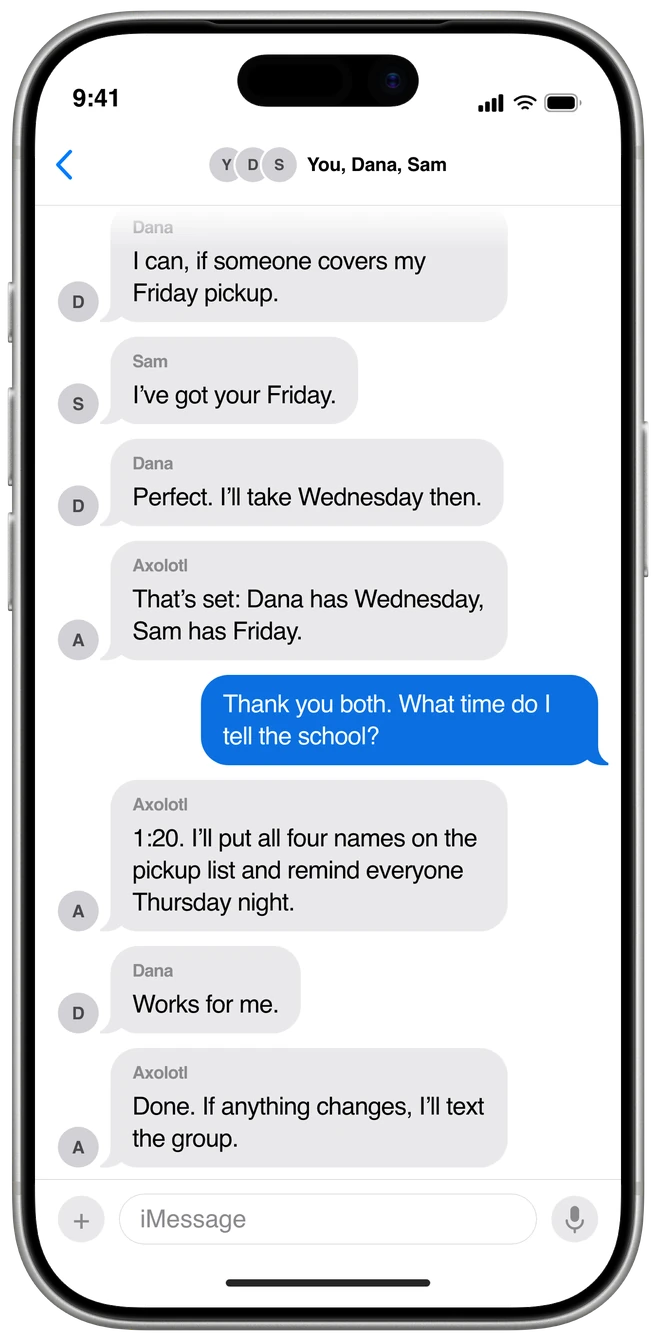
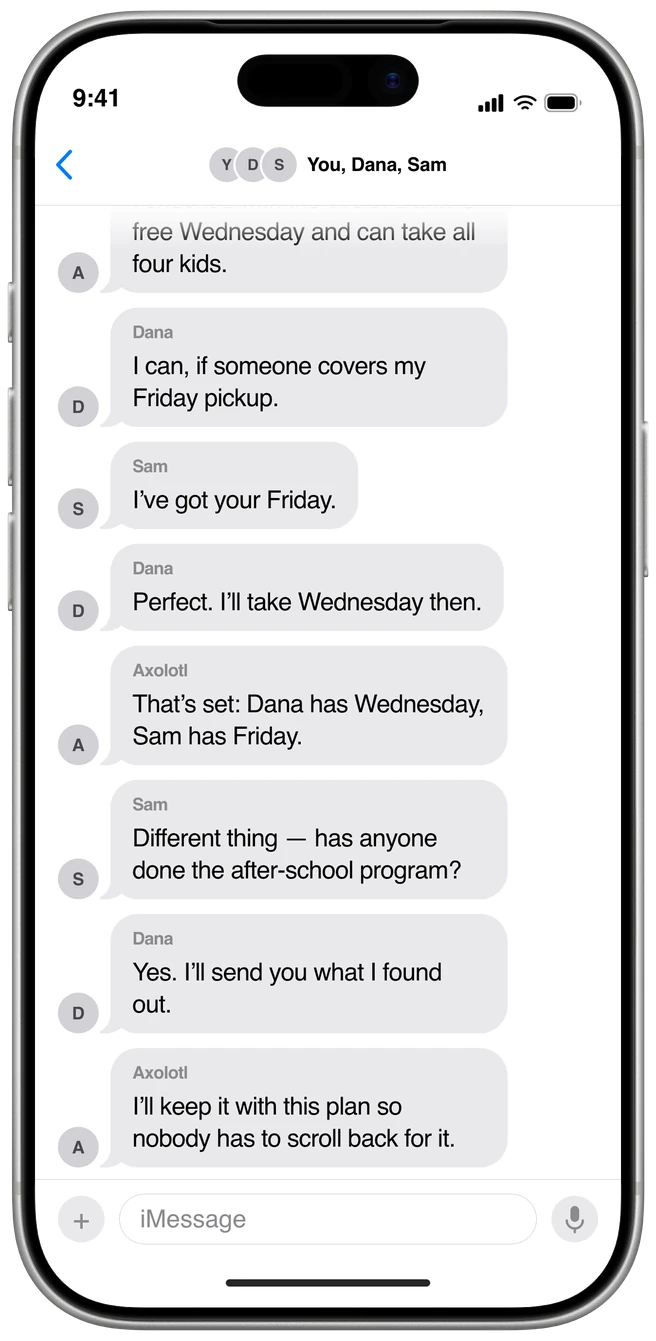
fix(site): stop the phones claiming Axolotl texts caregivers, broaden circles
The strings file already carried the rule "Nothing here claims Axolotl texts
a backup caregiver on a parent's behalf. That is not live, so the week bubbles
offer a reminder instead", and the conversations broke it in four places —
worst of all "I texted his teacher. She'll walk him to the office at noon",
which is not a thing any school agent should claim to do.

The week bubbles now name the limit and stay useful: "Grandma is first on your
backup list. I can't text her for you. I want the message written so it's one
tap?" — the parent sends it, Axolotl drafts and tracks it, then offers to email
the office. Same for Dana, Sam and the hero's Grandma line. "School texted"
becomes "School emailed", which is the channel that actually exists.

Circles stops being only about pickups:

  h2   "Coordinate effortlessly with the people you already trust."
  lead your partner, your mom, the sitter, the parents you trade with —
       one plan, and pickups are the start, not the whole idea
  list sick days, the school run, appointment swaps, and passing on what you
       learned about a teacher or a program
  chat Sam asks the group about the after-school program after the pickup is
       settled, and Axolotl keeps the answer with the plan

Layers column says the same thing in one line. Both languages, all ten renders
and the four pages regenerated.

diff --git a/public/es.html b/public/es.html
@@ -75,10 +75,10 @@
           <div class="hero-phone-wrap">
             <img
               class="hero-phone"
-              src="/hero-phone-es.webp?v=4b8a1b5db2573d4e"
+              src="/hero-phone-es.webp?v=8cd7f87125462286"
               width="328"
               height="670"
-              alt="Conversación de texto en un teléfono. Axolotl dice que llegaron ocho correos y que dos cosas necesitan a la familia. La familia, en juntas todo el día, le pide a Axolotl que se encargue. Axolotl llenó el formulario de excursión de Maya y lo envía con el visto bueno de la familia, luego confirma que Lincoln lo tiene, referencia K-1042, y que la abuela cubre la salida temprana del miércoles."
+              alt="Conversación de texto en un teléfono. Axolotl dice que llegaron ocho correos y que dos cosas necesitan a la familia. La familia, en juntas todo el día, le pide a Axolotl que se encargue. Axolotl llenó el formulario de excursión de Maya y lo envía con el visto bueno de la familia, luego confirma que Lincoln lo tiene, referencia K-1042, y avisa que la salida temprana del miércoles sigue sin cubrir, con un mensaje de un toque listo para la abuela."
               fetchpriority="high"
               decoding="async"
             />
@@ -120,7 +120,7 @@
         <div class="layer">
           <p class="layer-label">La casa ahora, los círculos después</p>
           <h3>Tu gente</h3>
-          <p>Tu pareja, la abuela y la niñera ven el mismo plan, y cada tarea tiene un nombre. Pronto: las mamás y papás con quienes intercambias recogidas.</p>
+          <p>Tu pareja, la abuela y la niñera ven el mismo plan, y cada tarea tiene un nombre. Pronto: las familias con las que compartes la ida a la escuela, los días de enfermedad y las recogidas.</p>
         </div>
         <div class="layer">
           <p class="layer-label">Compartido</p>
@@ -144,10 +144,10 @@
             <h3>Días libres y salidas tempranas</h3>
             <img
               class="week-shot"
-              src="/week-1-es.webp?v=4b8a1b5db2573d4e"
+              src="/week-1-es.webp?v=8cd7f87125462286"
               width="336"
               height="687"
-              alt="Una conversación de texto con Axolotl: Días libres y salidas tempranas. Axolotl: Salió el calendario del distrito. El miércoles la salida es a la 1:20. Tú: No puedo recogerlos, tengo reuniones hasta las 3. Axolotl: La abuela está libre. ¿Quieres que le pregunte? Tú: Sí, por favor. Axolotl: Dijo que sí. Leo está cubierto el miércoles a la 1:20. Tú: ¿Y Maya? Está en el otro plantel. Axolotl: Le pregunté a Dana: puede recoger a Maya de camino. Tú: Perfecto. Gracias. Axolotl: Los dos nombres están en la lista de recogida y la oficina ya sabe. Tú: ¿Eso cubre también el jueves? Axolotl: El jueves es un día normal. Estás libre hasta el viernes. Esperando tu sí"
+              alt="Una conversación de texto con Axolotl: Días libres y salidas tempranas. Axolotl: Salió el calendario del distrito. El miércoles la salida es a la 1:20. Tú: No puedo recogerlos, tengo reuniones hasta las 3. Axolotl: La abuela es la primera en tu lista de respaldo. No puedo escribirle yo. Axolotl: Te lo dejo redactado para que sea un toque, y te recuerdo el martes por la noche. Tú: Por favor. Axolotl: Listo: «¿Puedes recoger a los tres el miércoles? Salen a la 1:20.» Tú: Enviado. Dijo que sí. Axolotl: Anotado: Leo está cubierto. El plantel de Maya todavía necesita a Dana. Tú: Mándame lo mismo para Dana. Axolotl: Hecho. Si no lo has hecho, te pregunto el miércoles en la mañana. Esperando tu sí"
               decoding="async"
             />
           </li>
@@ -155,10 +155,10 @@
             <h3>Cambios del mismo día</h3>
             <img
               class="week-shot"
-              src="/week-2-es.webp?v=4b8a1b5db2573d4e"
+              src="/week-2-es.webp?v=8cd7f87125462286"
               width="336"
               height="687"
-              alt="Una conversación de texto con Axolotl: Cambios del mismo día. Axolotl: Lincoln acaba de escribir. Hoy salen al mediodía. Axolotl: Faltan doce minutos. Tú: No puedo salir. Tengo reuniones hasta las 3. Axolotl: La abuela es la primera en tu lista de respaldo. ¿Quieres que le pregunte? Tú: Sí, por favor, ya. Axolotl: Ya los tiene. Le avisé a la oficina que están cubiertos. Tú: ¿Le dijiste a Leo? Axolotl: Le escribí a su maestra. Ella lo lleva a la oficina al mediodía. Tú: Gracias. Qué rápido. Axolotl: La abuela te escribe cuando estén en casa. Axolotl: Voy a seguir los mensajes de la escuela por si algo más se mueve. Esperando tu sí"
+              alt="Una conversación de texto con Axolotl: Cambios del mismo día. Axolotl: Lincoln escribió. Hoy salen al mediodía. Axolotl: Faltan doce minutos. Tú: No puedo salir. Tengo reuniones hasta las 3. Axolotl: La abuela es la primera en tu lista de respaldo. No puedo escribirle yo. Axolotl: ¿Te dejo el mensaje redactado para que sea un toque? Tú: Sí, rápido. Axolotl: «¿Puedes recoger a los tres al mediodía? Lincoln adelantó la salida.» Tú: Enviado. Ya va. Axolotl: ¿Quieres que le escriba a la oficina que ella los recoge? Tú: Sí, y pide que manden a Leo a la oficina. Axolotl: Enviado. Te aviso en cuanto la oficina confirme. Esperando tu sí"
               decoding="async"
             />
           </li>
@@ -166,7 +166,7 @@
             <h3>Los pendientes pequeños</h3>
             <img
               class="week-shot"
-              src="/week-3-es.webp?v=4b8a1b5db2573d4e"
+              src="/week-3-es.webp?v=8cd7f87125462286"
               width="336"
               height="687"
               alt="Una conversación de texto con Axolotl: Los pendientes pequeños. Axolotl: Tres cosas esta semana: el jueves es el día de pijama, el formulario de la excursión vence el viernes, y Leo necesita una nota de ausencia. Tú: El lunes tiene dentista en la mañana. Axolotl: Entonces escribo la nota de ausencia para el lunes y lleno el formulario. Tú: ¿Necesitas algo de mí? Axolotl: Solo un sí. Lo demás ya lo tengo. Axolotl: Listo para enviar: la nota de ausencia y el formulario de Maya. Tú: Sí Axolotl: Los dos enviados. La oficina confirmó que los tiene. Tú: ¿Y el día de pijama? Axolotl: Nada que hacer: solo va en pijama. Te recuerdo el jueves en la mañana. Esperando tu sí"
@@ -177,10 +177,10 @@
             <h3>Quién se encarga</h3>
             <img
               class="week-shot"
-              src="/week-4-es.webp?v=4b8a1b5db2573d4e"
+              src="/week-4-es.webp?v=8cd7f87125462286"
               width="336"
               height="687"
-              alt="Una conversación de texto con Axolotl: Quién se encarga. Axolotl: Así va la semana. Axolotl: Recogida del miércoles: la abuela. El formulario de Maya: tú. Dentista el jueves: Sam. Tú: ¿Le puedes recordar a Sam lo del jueves? Axolotl: Sam ve la misma lista, y le recordaré a quien le toque. Tú: ¿Y el viernes? Puede que salga tarde. Axolotl: Dana lleva a los cuatro el viernes; lo confirmó esta mañana. Tú: Qué bien. ¿Se me olvida algo? Axolotl: La feria del libro dura toda la semana. No hay nada que hacer salvo que quieras mandar dinero. Tú: Déjalo. Axolotl: Listo, lo dejo. Te escribo el viernes por la tarde. Tú: Gracias. Axolotl: Con gusto. Que tengas buena semana. Recordatorio puesto"
+              alt="Una conversación de texto con Axolotl: Quién se encarga. Axolotl: Así va la semana. Axolotl: Recogida del miércoles: la abuela. El formulario de Maya: tú. Dentista el jueves: Sam. Tú: ¿Me puedes recordar hablar con Sam lo del jueves? Axolotl: No puedo escribirle a Sam, pero te lo recuerdo el jueves en la mañana. Tú: Hazlo. Axolotl: Listo. ¿Algo más? Tú: ¿Y el viernes? Puede que salga tarde. Axolotl: El viernes sigue sin cubrir. ¿Te dejo un mensaje de un toque para Dana? Tú: Sí. Axolotl: Redactado. Envíalo cuando quieras. Recordatorio puesto"
               decoding="async"
             />
           </li>
@@ -261,7 +261,7 @@
           <div class="phone-tilt">
             <img
               class="phone-shot"
-              src="/phone-es.webp?v=4b8a1b5db2573d4e"
+              src="/phone-es.webp?v=8cd7f87125462286"
               width="328"
               height="670"
               alt="Conversación de texto en un teléfono: Axolotl dice que Leo necesita un examen físico y uno dental antes del 15 de octubre. La familia le pide que se encargue. Axolotl encuentra una cita en la red, llena los dos formularios y muestra los datos listos para enviar. La familia responde Sí, y Axolotl confirma que la Primaria Lincoln lo aceptó, referencia K-1042."
@@ -286,18 +286,18 @@
       <div class="wrap circles-grid">
         <div>
           <div class="h2-row">
-            <h2 id="circles-title">Turnarse para recoger a los niños, con familias de confianza.</h2>
+            <h2 id="circles-title">Coordina sin esfuerzo con la gente en la que ya confías.</h2>
             <span class="status status-soon">Próximamente</span>
           </div>
-          <p class="lead">Ya se turnan para recoger a los niños por mensaje. Pronto, Axolotl puede hacer las preguntas: calcula la parte de cada familia y solo lo planea cuando todas dicen que sí.</p>
+          <p class="lead">Tu círculo es la gente que ya te ayuda: tu pareja, tu mamá, la niñera, las familias con las que te turnas. Pronto, Axolotl los mete en un solo plan — pregunta con tus palabras, reparte quién hace qué, y solo lo cierra cuando todos dicen que sí. Las recogidas son el principio, no todo.</p>
           <ul class="plain-list" aria-label="Cómo funcionan los círculos">
           <li>Nunca necesitas un círculo para recibir toda la ayuda.</li>
           <li>Un círculo solo ve el plan, nunca por qué una familia necesita ayuda.</li>
-          <li>Nada se acuerda hasta que todas las familias digan sí.</li>
-          <li>Ayudar no es solo manejar, y nadie lleva la cuenta.</li>
+          <li>Nada se acuerda hasta que todos digan sí.</li>
+          <li>No son solo las recogidas: días de enfermedad, la ida a la escuela, cambios de cita, y compartir lo que averiguaste sobre una maestra o un programa.</li>
           <li>Cada quien lee y escribe en su propio idioma.</li>
           <li>Si el distrito le debe transporte a tu familia, Axolotl le pregunta primero al distrito.</li>
-          <li>Axolotl coordina. No da transporte; las familias deciden quién maneja.</li>
+          <li>Axolotl coordina. No maneja; las familias deciden.</li>
           </ul>
           <div class="form-block">
           <h3>Empieza un círculo</h3>
@@ -331,10 +331,10 @@
           <figure class="circles-shot">
             <img
               class="phone-shot"
-              src="/circles-es.webp?v=4b8a1b5db2573d4e"
+              src="/circles-es.webp?v=8cd7f87125462286"
               width="328"
               height="670"
-              alt="Ejemplo de chat grupal en Mensajes. La familia dice que los dos están atorados el miércoles por la salida temprana y pide ayuda. Axolotl reporta que Dana está libre el miércoles y puede llevar a los cuatro niños; Dana acepta si alguien cubre su recogida del viernes, Sam toma el viernes, y Axolotl confirma el plan: Dana el miércoles, Sam el viernes."
+              alt="Ejemplo de chat grupal en Mensajes, con la función de círculos. La familia dice que los dos están atorados el miércoles por la salida temprana y pide ayuda. Axolotl reporta que Dana está libre el miércoles y puede llevar a los cuatro niños; Dana acepta si alguien cubre su recogida del viernes, Sam toma el viernes, y Axolotl confirma el plan: Dana el miércoles, Sam el viernes. Luego Sam pregunta al grupo por el programa después de clases."
               loading="lazy"
               decoding="async"
             />

diff --git a/public/index.html b/public/index.html
@@ -75,10 +75,10 @@
           <div class="hero-phone-wrap">
             <img
               class="hero-phone"
-              src="/hero-phone-en.webp?v=4b8a1b5db2573d4e"
+              src="/hero-phone-en.webp?v=8cd7f87125462286"
               width="328"
               height="670"
-              alt="Text thread on a phone. Axolotl says eight school emails came in and two things need the parent. The parent, in meetings all day, asks Axolotl to deal with them. Axolotl has filled in Maya’s field trip form and sends it on the parent’s go-ahead, then confirms Lincoln has it, reference K-1042, and that Grandma is covering Wednesday’s early release."
+              alt="Text thread on a phone. Axolotl says eight school emails came in and two things need the parent. The parent, in meetings all day, asks Axolotl to deal with them. Axolotl has filled in Maya’s field trip form and sends it on the parent’s go-ahead, then confirms Lincoln has it, reference K-1042. It also flags that Wednesday’s early release still needs cover and offers a one-tap message for Grandma."
               fetchpriority="high"
               decoding="async"
             />
@@ -120,7 +120,7 @@
         <div class="layer">
           <p class="layer-label">Household now, circles soon</p>
           <h3>Your people</h3>
-          <p>Your partner, grandma and the sitter see the same plan, and every task has a name on it. Soon: the parent friends you trade pickups with.</p>
+          <p>Your partner, grandma and the sitter see the same plan, and every task has a name on it. Soon: the parents you trade the school run, sick days and pickups with.</p>
         </div>
         <div class="layer">
           <p class="layer-label">Shared</p>
@@ -144,10 +144,10 @@
             <h3>Days off and early releases</h3>
             <img
               class="week-shot"
-              src="/week-1-en.webp?v=4b8a1b5db2573d4e"
+              src="/week-1-en.webp?v=8cd7f87125462286"
               width="336"
               height="687"
-              alt="A text conversation with Axolotl: Days off and early releases. Axolotl: The district calendar came out. Wednesday is early release at 1:20. You: I can’t get them — I’m in meetings until 3. Axolotl: Grandma is free. Want me to ask her? You: Please. Axolotl: She said yes. Leo is covered at 1:20 on Wednesday. You: What about Maya? She’s at the other campus. Axolotl: I asked Dana — she can pick Maya up on her way. You: Perfect. Thank you. Axolotl: Both names are on the pickup list and the office knows. You: Does that cover Thursday too? Axolotl: Thursday is a normal day. You’re clear until Friday. Waiting for your yes"
+              alt="A text conversation with Axolotl: Days off and early releases. Axolotl: The district calendar came out. Wednesday is early release at 1:20. You: I can’t get them — I’m in meetings until 3. Axolotl: Grandma is first on your backup list. I can’t text her for you. Axolotl: I’ll write it so it’s one tap, and remind you Tuesday night. You: Please. Axolotl: Ready: “Can you get all three Wednesday? Out at 1:20.” You: Sent. She said yes. Axolotl: Noted — Leo is covered. Maya’s campus still needs Dana. You: Send me the same for Dana. Axolotl: Done. I’ll check Wednesday morning if you haven’t. Waiting for your yes"
               decoding="async"
             />
           </li>
@@ -155,10 +155,10 @@
             <h3>Same-day changes</h3>
             <img
               class="week-shot"
-              src="/week-2-en.webp?v=4b8a1b5db2573d4e"
+              src="/week-2-en.webp?v=8cd7f87125462286"
               width="336"
               height="687"
-              alt="A text conversation with Axolotl: Same-day changes. Axolotl: Lincoln just texted. Dismissal at noon today. Axolotl: That’s twelve minutes from now. You: I can’t leave. I’m in meetings until 3. Axolotl: Grandma is first on your backup list. Want me to ask her? You: Yes, please — go. Axolotl: She’s got them. I told the office the kids are covered. You: Did you tell Leo? Axolotl: I texted his teacher. She’ll walk him to the office at noon. You: Thank you. That was fast. Axolotl: Grandma will text you when they’re home. Axolotl: I’ll keep an eye on the school’s messages in case anything else moves. Waiting for your yes"
+              alt="A text conversation with Axolotl: Same-day changes. Axolotl: Lincoln emailed. Dismissal at noon today. Axolotl: That’s twelve minutes from now. You: I can’t leave. I’m in meetings until 3. Axolotl: Grandma is first on your backup list. I can’t text her for you. Axolotl: Want the message written so it’s one tap? You: Yes — fast. Axolotl: “Can you get all three at noon? Lincoln moved dismissal up.” You: Sent. She’s on it. Axolotl: Want me to email the office that she’s collecting them? You: Yes — and ask them to send Leo down. Axolotl: Sent. I’ll tell you the moment the office confirms. Waiting for your yes"
               decoding="async"
             />
           </li>
@@ -166,7 +166,7 @@
             <h3>The small asks</h3>
             <img
               class="week-shot"
-              src="/week-3-en.webp?v=4b8a1b5db2573d4e"
+              src="/week-3-en.webp?v=8cd7f87125462286"
               width="336"
               height="687"
               alt="A text conversation with Axolotl: The small asks. Axolotl: Three things this week: pajama day Thursday, the field trip form due Friday, and Leo needs an absence note. You: He has a dentist appointment Monday morning. Axolotl: Then I’ll write the absence note for Monday and fill in the form. You: Do you need anything from me? Axolotl: Just a yes. Everything else I have. Axolotl: Ready to send: the absence note and Maya’s field trip form. You: Yes Axolotl: Both sent. The office confirmed they have them. You: What about pajama day? Axolotl: Nothing to do — he just wears pajamas. I’ll remind you Thursday morning. Waiting for your yes"
@@ -177,10 +177,10 @@
             <h3>Who&#39;s got it</h3>
             <img
               class="week-shot"
-              src="/week-4-en.webp?v=4b8a1b5db2573d4e"
+              src="/week-4-en.webp?v=8cd7f87125462286"
               width="336"
               height="687"
-              alt="A text conversation with Axolotl: Who&#39;s got it. Axolotl: Here’s who’s on what this week. Axolotl: Wednesday pickup: Grandma. Maya’s form: you. Dentist Thursday: Sam. You: Can you remind Sam about Thursday? Axolotl: Sam sees the same list, and I’ll remind whoever’s on it. You: What about Friday? I might be late. Axolotl: Dana has all four on Friday — she confirmed this morning. You: Great. Anything I’m forgetting? Axolotl: The book fair runs all week. No action unless you want to send money. You: Skip it. Axolotl: Skipped. I’ll check in Friday afternoon. You: Thanks. Axolotl: Anytime. Have a good week. Reminder set"
+              alt="A text conversation with Axolotl: Who&#39;s got it. Axolotl: Here’s who’s on what this week. Axolotl: Wednesday pickup: Grandma. Maya’s form: you. Dentist Thursday: Sam. You: Can you remind me to check with Sam about Thursday? Axolotl: I can’t text Sam for you, but I’ll remind you Thursday morning. You: Do that. Axolotl: Set. Anything else? You: What about Friday? I might be late. Axolotl: Nobody’s covering Friday yet. Want a one-tap message for Dana? You: Yes. Axolotl: Written. Send it whenever you’re ready. Reminder set"
               decoding="async"
             />
           </li>
@@ -261,7 +261,7 @@
           <div class="phone-tilt">
             <img
               class="phone-shot"
-              src="/phone-en.webp?v=4b8a1b5db2573d4e"
+              src="/phone-en.webp?v=8cd7f87125462286"
               width="328"
               height="670"
               alt="Text conversation on a phone: Axolotl says Leo needs a physical and a dental check on file by October 15. The parent asks Axolotl to sort it out. Axolotl finds an in-network appointment, fills in both forms, and shows the ready-to-send details. The parent replies Yes, and Axolotl confirms Lincoln Elementary accepted it, reference K-1042."
@@ -286,18 +286,18 @@
       <div class="wrap circles-grid">
         <div>
           <div class="h2-row">
-            <h2 id="circles-title">Trade pickups with families you trust.</h2>
+            <h2 id="circles-title">Coordinate effortlessly with the people you already trust.</h2>
             <span class="status status-soon">Coming soon</span>
           </div>
-          <p class="lead">You already trade pickups over text. Soon, Axolotl can do the asking: it works out each family&#39;s part, and only plans it once every family says yes.</p>
+          <p class="lead">Your circle is the people who already help: your partner, your mom, the sitter, the parents you trade with. Soon, Axolotl brings them into one plan — it asks in your words, works out who is doing what, and only commits once everyone says yes. Pickups are the start, not the whole idea.</p>
           <ul class="plain-list" aria-label="How circles work">
           <li>You never need a circle to get the full help.</li>
           <li>A circle sees only the plan, never why a family needs help.</li>
-          <li>Nothing is agreed until every family says yes.</li>
-          <li>Helping out isn&#39;t only driving, and nobody keeps score.</li>
+          <li>Nothing is agreed until everyone says yes.</li>
+          <li>It is not only pickups: sick days, the school run, appointment swaps, and passing on what you have learned about a teacher or a program.</li>
           <li>Everyone reads and writes in their own language.</li>
           <li>If the district owes your family a ride, Axolotl asks the district first.</li>
-          <li>Axolotl coordinates. It doesn&#39;t provide rides; families decide who drives.</li>
+          <li>Axolotl coordinates. It does not drive anyone; the families decide.</li>
           </ul>
           <div class="form-block">
           <h3>Start a circle</h3>
@@ -331,10 +331,10 @@
           <figure class="circles-shot">
             <img
               class="phone-shot"
-              src="/circles-en.webp?v=4b8a1b5db2573d4e"
+              src="/circles-en.webp?v=8cd7f87125462286"
               width="328"
               height="670"
-              alt="Example group chat in the Messages app. The parent says they are both stuck on Wednesday&#39;s early release and asks for help. Axolotl reports that Dana is free Wednesday and can take all four kids; Dana agrees if someone covers her Friday pickup, Sam takes Friday, and Axolotl confirms the plan — Dana Wednesday, Sam Friday."
+              alt="Example group chat in the Messages app, showing the circles feature. The parent says they are both stuck on Wednesday&#39;s early release and asks for help. Axolotl reports that Dana is free Wednesday and can take all four kids; Dana agrees if someone covers her Friday pickup, Sam takes Friday, and Axolotl confirms the plan — Dana Wednesday, Sam Friday. Sam then asks the group about the after-school program."
               loading="lazy"
               decoding="async"
             />
